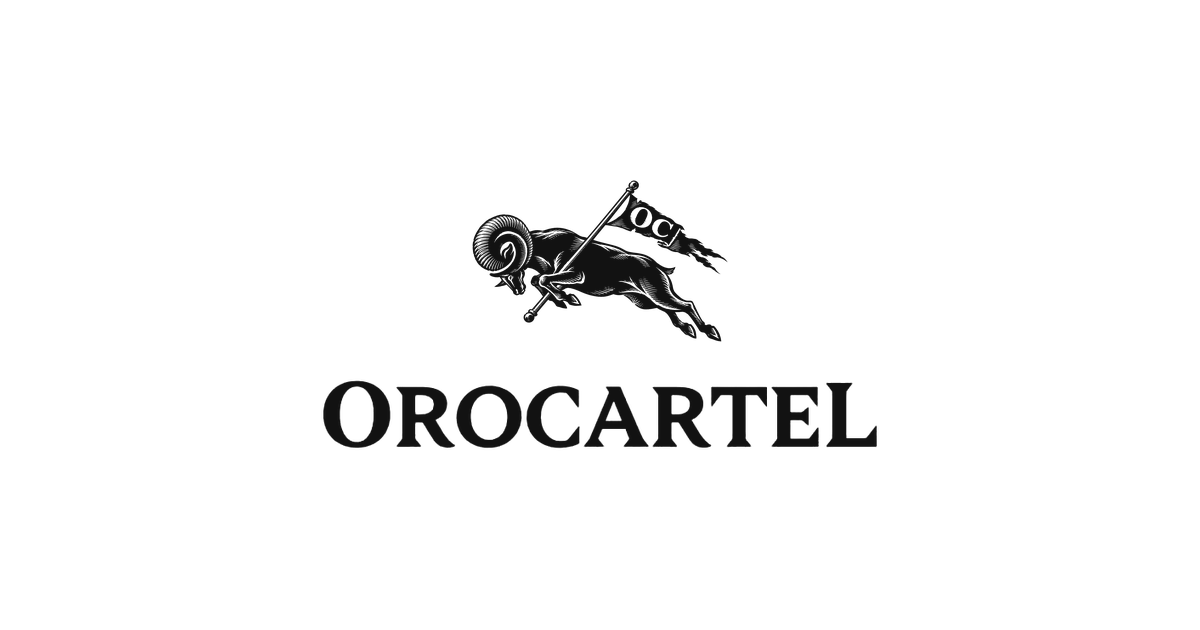
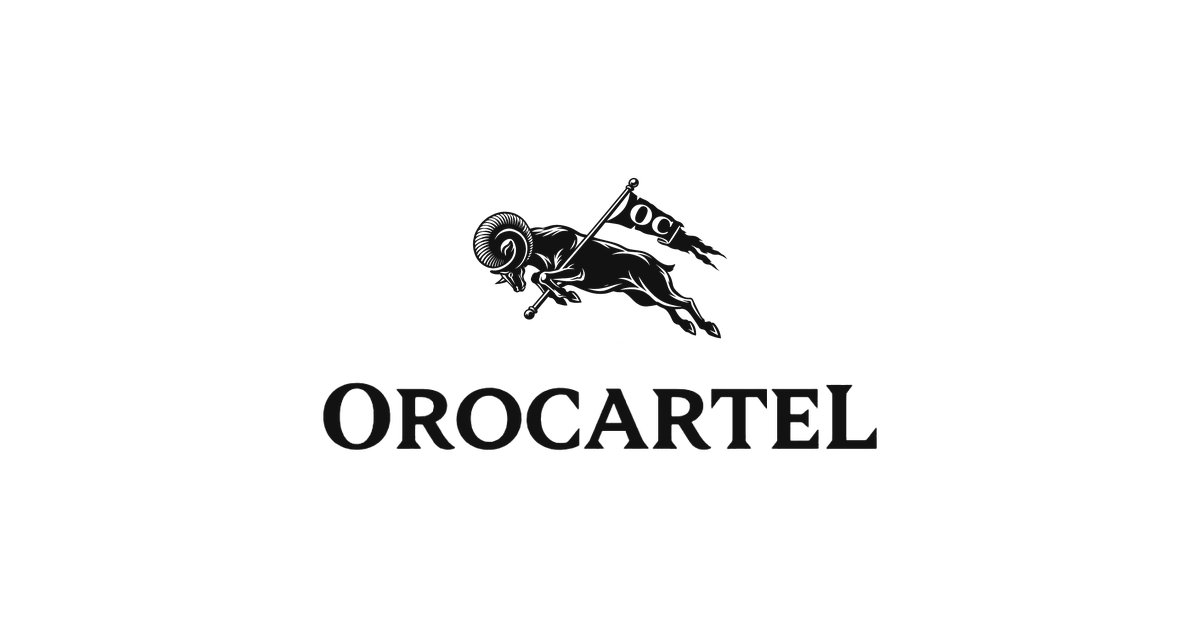
Higher-quality hero photo and ram mark
Ram re-cut from the cleaner source for the hero, footer, favicon,
apple icon and OG image.

Claude-Session: https://claude.ai/code/session_01T4Cdqd23qvkWZuxUWvy2Fz

Changed region(s): [[0.37, 0.2714, 0.6167, 0.5429], [0.2775, 0.6032, 0.74, 0.7238]]

diff --git a/components/Logo.tsx b/components/Logo.tsx
@@ -4,7 +4,7 @@ import styles from './Logo.module.css'
 export default function Logo({ size = 200, className }: { size?: number; className?: string }) {
   return (
     <span className={className ? `${styles.logo} ${className}` : styles.logo} style={{ width: size }}>
-      <img src="/ram-dark.png" alt="" className={styles.mark} width={1313} height={833} />
+      <img src="/ram-dark.png" alt="" className={styles.mark} width={1085} height={710} />
       <img src="/wordmark-dark.png" alt="OROCARTEL" className={styles.word} width={659} height={87} />
     </span>
   )

diff --git a/app/page.tsx b/app/page.tsx
@@ -50,7 +50,7 @@ export default function Home() {
           <img src={site.heroImage} alt="" className={styles.heroImg} fetchPriority="high" />
         )}
         <div className={styles.heroShade} aria-hidden />
-        <img src="/ram.png" alt="" className={styles.heroRam} width={1313} height={833} />
+        <img src="/ram.png" alt="" className={styles.heroRam} width={1085} height={710} />
       </section>
 
       <div className={styles.perks}>
